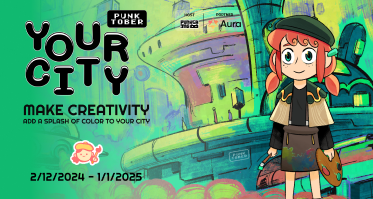
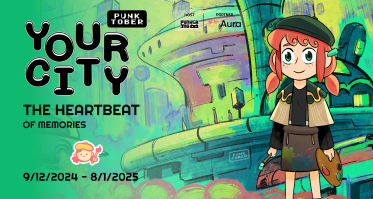
update event metadata

Changed region(s): [[0.059, 0.5126, 0.4129, 0.6633], [0.059, 0.8442, 0.3834, 0.9347]]

diff --git a/src/pages/events/your-city/home/index.tsx b/src/pages/events/your-city/home/index.tsx
@@ -2,6 +2,7 @@ import HeadComponent from 'components/Head'
 import { serverSideTranslations } from 'next-i18next/serverSideTranslations'
 import Layout from 'components/Layout'
 import Event from './page'
+import { pageMetadata } from '../..'
 
 export default function Page(props) {
   if (props.justHead || props.pageProps?.justHead) {
@@ -18,23 +19,9 @@ Page.getLayout = function getLayout(page) {
   return <Layout>{page}</Layout>
 }
 export const getServerSideProps = async (context) => {
-  const props = {
-    image:
-      context.locale == 'vn'
-        ? 'https://punkga.me/assets/images/ava-thumb.png'
-        : 'https://punkga.me/assets/images/ava-thumb.png',
-    title:
-      context.locale == 'vn'
-        ? `AVA Grand Contest 2024 - Find Your Artistic Voice`
-        : `AVA Grand Contest 2024 - Find Your Artistic Voice`,
-    description:
-      context.locale == 'vn'
-        ? `Tham gia AVA Grand Contest 2024 trên PunkgaMe để chứng tỏ bản sắc nghệ thuật của riêng bạn và giành lấy phần thưởng lên tới 150 Triệu VNĐ!`
-        : `Join the AVA Grand Contest 2024 on Punkga Me to showcase your talent and win prizes up to 6,000 USD. Prove the power of true art in an AI-driven world!`,
-  }
   return {
     props: {
-      metadata: props,
+      metadata: pageMetadata(context),
       ...(await serverSideTranslations(context?.locale!, ['common'])),
     },
   }

diff --git a/src/pages/events/your-city/submit/index.tsx b/src/pages/events/your-city/submit/index.tsx
@@ -2,6 +2,7 @@ import HeadComponent from 'components/Head'
 import { serverSideTranslations } from 'next-i18next/serverSideTranslations'
 import Layout from 'components/Layout'
 import Event from './page'
+import { pageMetadata } from '../..'
 
 export default function Page(props) {
   if (props.justHead || props.pageProps?.justHead) {
@@ -18,23 +19,9 @@ Page.getLayout = function getLayout(page) {
   return <Layout>{page}</Layout>
 }
 export const getServerSideProps = async (context) => {
-  const props = {
-    image:
-      context.locale == 'vn'
-        ? 'https://punkga.me/assets/images/ava-thumb.png'
-        : 'https://punkga.me/assets/images/ava-thumb.png',
-    title:
-      context.locale == 'vn'
-        ? `AVA Grand Contest 2024 - Find Your Artistic Voice`
-        : `AVA Grand Contest 2024 - Find Your Artistic Voice`,
-    description:
-      context.locale == 'vn'
-        ? `Tham gia AVA Grand Contest 2024 trên PunkgaMe để chứng tỏ bản sắc nghệ thuật của riêng bạn và giành lấy phần thưởng lên tới 150 Triệu VNĐ!`
-        : `Join the AVA Grand Contest 2024 on Punkga Me to showcase your talent and win prizes up to 6,000 USD. Prove the power of true art in an AI-driven world!`,
-  }
   return {
     props: {
-      metadata: props,
+      metadata: pageMetadata(context),
       ...(await serverSideTranslations(context?.locale!, ['common'])),
     },
   }

diff --git a/src/pages/events/your-city/index.tsx b/src/pages/events/your-city/index.tsx
@@ -2,6 +2,7 @@ import HeadComponent from 'components/Head'
 import { serverSideTranslations } from 'next-i18next/serverSideTranslations'
 import Layout from 'components/Layout'
 import Event from './page'
+import { pageMetadata } from '..'
 
 export default function Page(props) {
   if (props.justHead || props.pageProps?.justHead) {
@@ -18,23 +19,9 @@ Page.getLayout = function getLayout(page) {
   return <Layout>{page}</Layout>
 }
 export const getServerSideProps = async (context) => {
-  const props = {
-    image:
-      context.locale == 'vn'
-        ? 'https://punkga.me/assets/images/ava-thumb.png'
-        : 'https://punkga.me/assets/images/ava-thumb.png',
-    title:
-      context.locale == 'vn'
-        ? `AVA Grand Contest 2024 - Find Your Artistic Voice`
-        : `AVA Grand Contest 2024 - Find Your Artistic Voice`,
-    description:
-      context.locale == 'vn'
-        ? `Tham gia AVA Grand Contest 2024 trên PunkgaMe để chứng tỏ bản sắc nghệ thuật của riêng bạn và giành lấy phần thưởng lên tới 150 Triệu VNĐ!`
-        : `Join the AVA Grand Contest 2024 on Punkga Me to showcase your talent and win prizes up to 6,000 USD. Prove the power of true art in an AI-driven world!`,
-  }
   return {
     props: {
-      metadata: props,
+      metadata: pageMetadata(context),
       ...(await serverSideTranslations(context?.locale!, ['common'])),
     },
   }

diff --git a/src/pages/events/index.tsx b/src/pages/events/index.tsx
@@ -19,17 +19,21 @@ Page.getLayout = function getLayout(page) {
 }
 
 export const getServerSideProps = async (context) => {
-  const props = {
-    title: 'Events',
-    description:
-      context?.locale == 'en'
-        ? 'Collection of super hot events taking place on Punkga Me. Explore now!'
-        : 'Tổng hợp các sự kiện siêu hấp dẫn trên Punkga Me. Khám phá ngay!',
-  }
   return {
     props: {
-      metadata: props,
+      metadata: pageMetadata(context),
       ...(await serverSideTranslations(context?.locale!, ['common'])),
     },
   }
 }
+export const pageMetadata = (context) => ({
+  image:
+    context.locale == 'vn'
+      ? 'https://punkga.me/assets/images/your-city-thumb.png'
+      : 'https://punkga.me/assets/images/your-city-thumb.png',
+  title: context?.locale == 'en' ? 'Your city: The heartbeat of memories' : 'Thành phố của bạn: Nhịp tim của ký ức',
+  description:
+    context?.locale == 'en'
+      ? 'Ready to draw your own city, a place where your imagination knows no bounds and your dreams can soar.'
+      : 'Sẵn sàng vẽ thành phố của riêng bạn, một nơi mà trí tưởng tượng của bạn không có giới hạn và ước mơ của bạn có thể bay cao.',
+})
